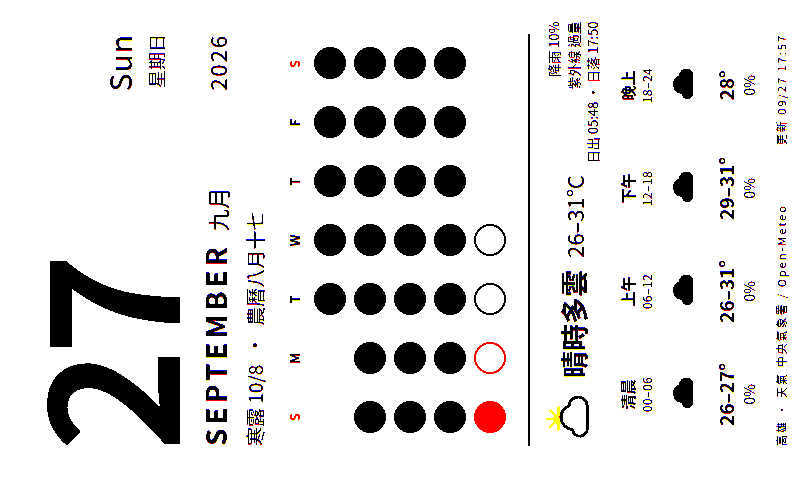
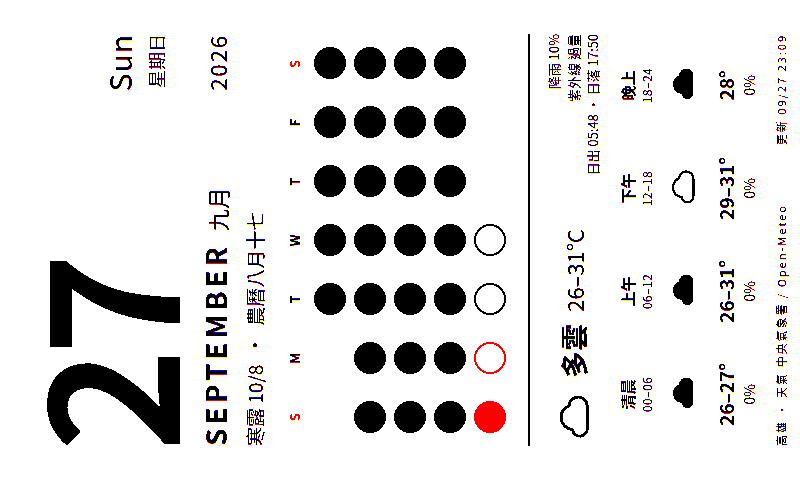
deploy: cf7d1051eb6821bc691ba0ade4beb12cdf9fe0ef

diff --git a/calendar.html b/calendar.html
@@ -54,9 +54,9 @@
   <div class="today"><span class="lunar">寒露 10/8</span><span>·</span><span class="lunar">農曆八月十七</span></div>
   <div class="grid"><div class="h we">S</div><div class="h">M</div><div class="h">T</div><div class="h">W</div><div class="h">T</div><div class="h">F</div><div class="h we">S</div><div class="dot empty"></div><div class="dot empty"></div><div class="dot past" title="1"></div><div class="dot past" title="2"></div><div class="dot past" title="3"></div><div class="dot past" title="4"></div><div class="dot past" title="5"></div><div class="dot past" title="6"></div><div class="dot past" title="7"></div><div class="dot past" title="8"></div><div class="dot past" title="9"></div><div class="dot past" title="10"></div><div class="dot past" title="11"></div><div class="dot past" title="12"></div><div class="dot past" title="13"></div><div class="dot past" title="14"></div><div class="dot past" title="15"></div><div class="dot past" title="16"></div><div class="dot past" title="17"></div><div class="dot past" title="18"></div><div class="dot past" title="19"></div><div class="dot past" title="20"></div><div class="dot past" title="21"></div><div class="dot past" title="22"></div><div class="dot past" title="23"></div><div class="dot past" title="24"></div><div class="dot past" title="25"></div><div class="dot past" title="26"></div><div class="dot now" title="27"></div><div class="dot future hol" title="28"></div><div class="dot future" title="29"></div><div class="dot future" title="30"></div></div>
   <div class="wx"><div class="line">
-    <div class="wxhead"><svg viewBox="0 0 64 68" xmlns="http://www.w3.org/2000/svg"><g transform="translate(12 -4) scale(.6)"><circle cx="32" cy="32" r="11" fill="#f5c400"/><g stroke="#f5c400" stroke-width="4" stroke-linecap="round"><line x1="32" y1="32" x2="32" y2="8" transform="rotate(0 32 32)"/><line x1="32" y1="32" x2="32" y2="8" transform="rotate(45 32 32)"/><line x1="32" y1="32" x2="32" y2="8" transform="rotate(90 32 32)"/><line x1="32" y1="32" x2="32" y2="8" transform="rotate(135 32 32)"/><line x1="32" y1="32" x2="32" y2="8" transform="rotate(180 32 32)"/><line x1="32" y1="32" x2="32" y2="8" transform="rotate(225 32 32)"/><line x1="32" y1="32" x2="32" y2="8" transform="rotate(270 32 32)"/><line x1="32" y1="32" x2="32" y2="8" transform="rotate(315 32 32)"/></g></g><path d="M20 50h26a11 11 0 0 0 1-22 15 15 0 0 0-29 4 9 9 0 0 0 2 18z" fill="#fff" stroke="#000" stroke-width="3.5" stroke-linejoin="round"/></svg><span class="desc">晴時多雲</span><span class="temp">26–31°C</span>
+    <div class="wxhead"><svg viewBox="0 0 64 68" xmlns="http://www.w3.org/2000/svg"><path d="M20 50h26a11 11 0 0 0 1-22 15 15 0 0 0-29 4 9 9 0 0 0 2 18z" fill="#fff" stroke="#000" stroke-width="3.5" stroke-linejoin="round"/></svg><span class="desc">多雲</span><span class="temp">26–31°C</span>
       <div class="meta">降雨 10%<br>紫外線 過量<br>日出 05:48 · 日落 17:50</div></div>
-    <div class="slots"><div class="slot"><div class="n">清晨</div><div class="hrs">00–06</div><svg viewBox="0 0 64 68" xmlns="http://www.w3.org/2000/svg"><path d="M20 50h26a11 11 0 0 0 1-22 15 15 0 0 0-29 4 9 9 0 0 0 2 18z" fill="#000"/></svg><div class="t">26–27°</div><div class="p dry">0%</div></div><div class="slot"><div class="n">上午</div><div class="hrs">06–12</div><svg viewBox="0 0 64 68" xmlns="http://www.w3.org/2000/svg"><path d="M20 50h26a11 11 0 0 0 1-22 15 15 0 0 0-29 4 9 9 0 0 0 2 18z" fill="#000"/></svg><div class="t">26–31°</div><div class="p dry">0%</div></div><div class="slot"><div class="n">下午</div><div class="hrs">12–18</div><svg viewBox="0 0 64 68" xmlns="http://www.w3.org/2000/svg"><path d="M20 50h26a11 11 0 0 0 1-22 15 15 0 0 0-29 4 9 9 0 0 0 2 18z" fill="#000"/></svg><div class="t">29–31°</div><div class="p dry">0%</div></div><div class="slot"><div class="n">晚上</div><div class="hrs">18–24</div><svg viewBox="0 0 64 68" xmlns="http://www.w3.org/2000/svg"><path d="M20 50h26a11 11 0 0 0 1-22 15 15 0 0 0-29 4 9 9 0 0 0 2 18z" fill="#000"/></svg><div class="t">28°</div><div class="p dry">0%</div></div></div>
+    <div class="slots"><div class="slot"><div class="n">清晨</div><div class="hrs">00–06</div><svg viewBox="0 0 64 68" xmlns="http://www.w3.org/2000/svg"><path d="M20 50h26a11 11 0 0 0 1-22 15 15 0 0 0-29 4 9 9 0 0 0 2 18z" fill="#000"/></svg><div class="t">26–27°</div><div class="p dry">0%</div></div><div class="slot"><div class="n">上午</div><div class="hrs">06–12</div><svg viewBox="0 0 64 68" xmlns="http://www.w3.org/2000/svg"><path d="M20 50h26a11 11 0 0 0 1-22 15 15 0 0 0-29 4 9 9 0 0 0 2 18z" fill="#000"/></svg><div class="t">26–31°</div><div class="p dry">0%</div></div><div class="slot"><div class="n">下午</div><div class="hrs">12–18</div><svg viewBox="0 0 64 68" xmlns="http://www.w3.org/2000/svg"><path d="M20 50h26a11 11 0 0 0 1-22 15 15 0 0 0-29 4 9 9 0 0 0 2 18z" fill="#fff" stroke="#000" stroke-width="3.5" stroke-linejoin="round"/></svg><div class="t">29–31°</div><div class="p dry">0%</div></div><div class="slot"><div class="n">晚上</div><div class="hrs">18–24</div><svg viewBox="0 0 64 68" xmlns="http://www.w3.org/2000/svg"><path d="M20 50h26a11 11 0 0 0 1-22 15 15 0 0 0-29 4 9 9 0 0 0 2 18z" fill="#000"/></svg><div class="t">28°</div><div class="p dry">0%</div></div></div>
   </div></div>
-  <div class="foot"><span>高雄 · 天氣 中央氣象署 / Open-Meteo</span><span>更新 09/27 17:57</span></div>
+  <div class="foot"><span>高雄 · 天氣 中央氣象署 / Open-Meteo</span><span>更新 09/27 23:09</span></div>
 </div></body></html>
